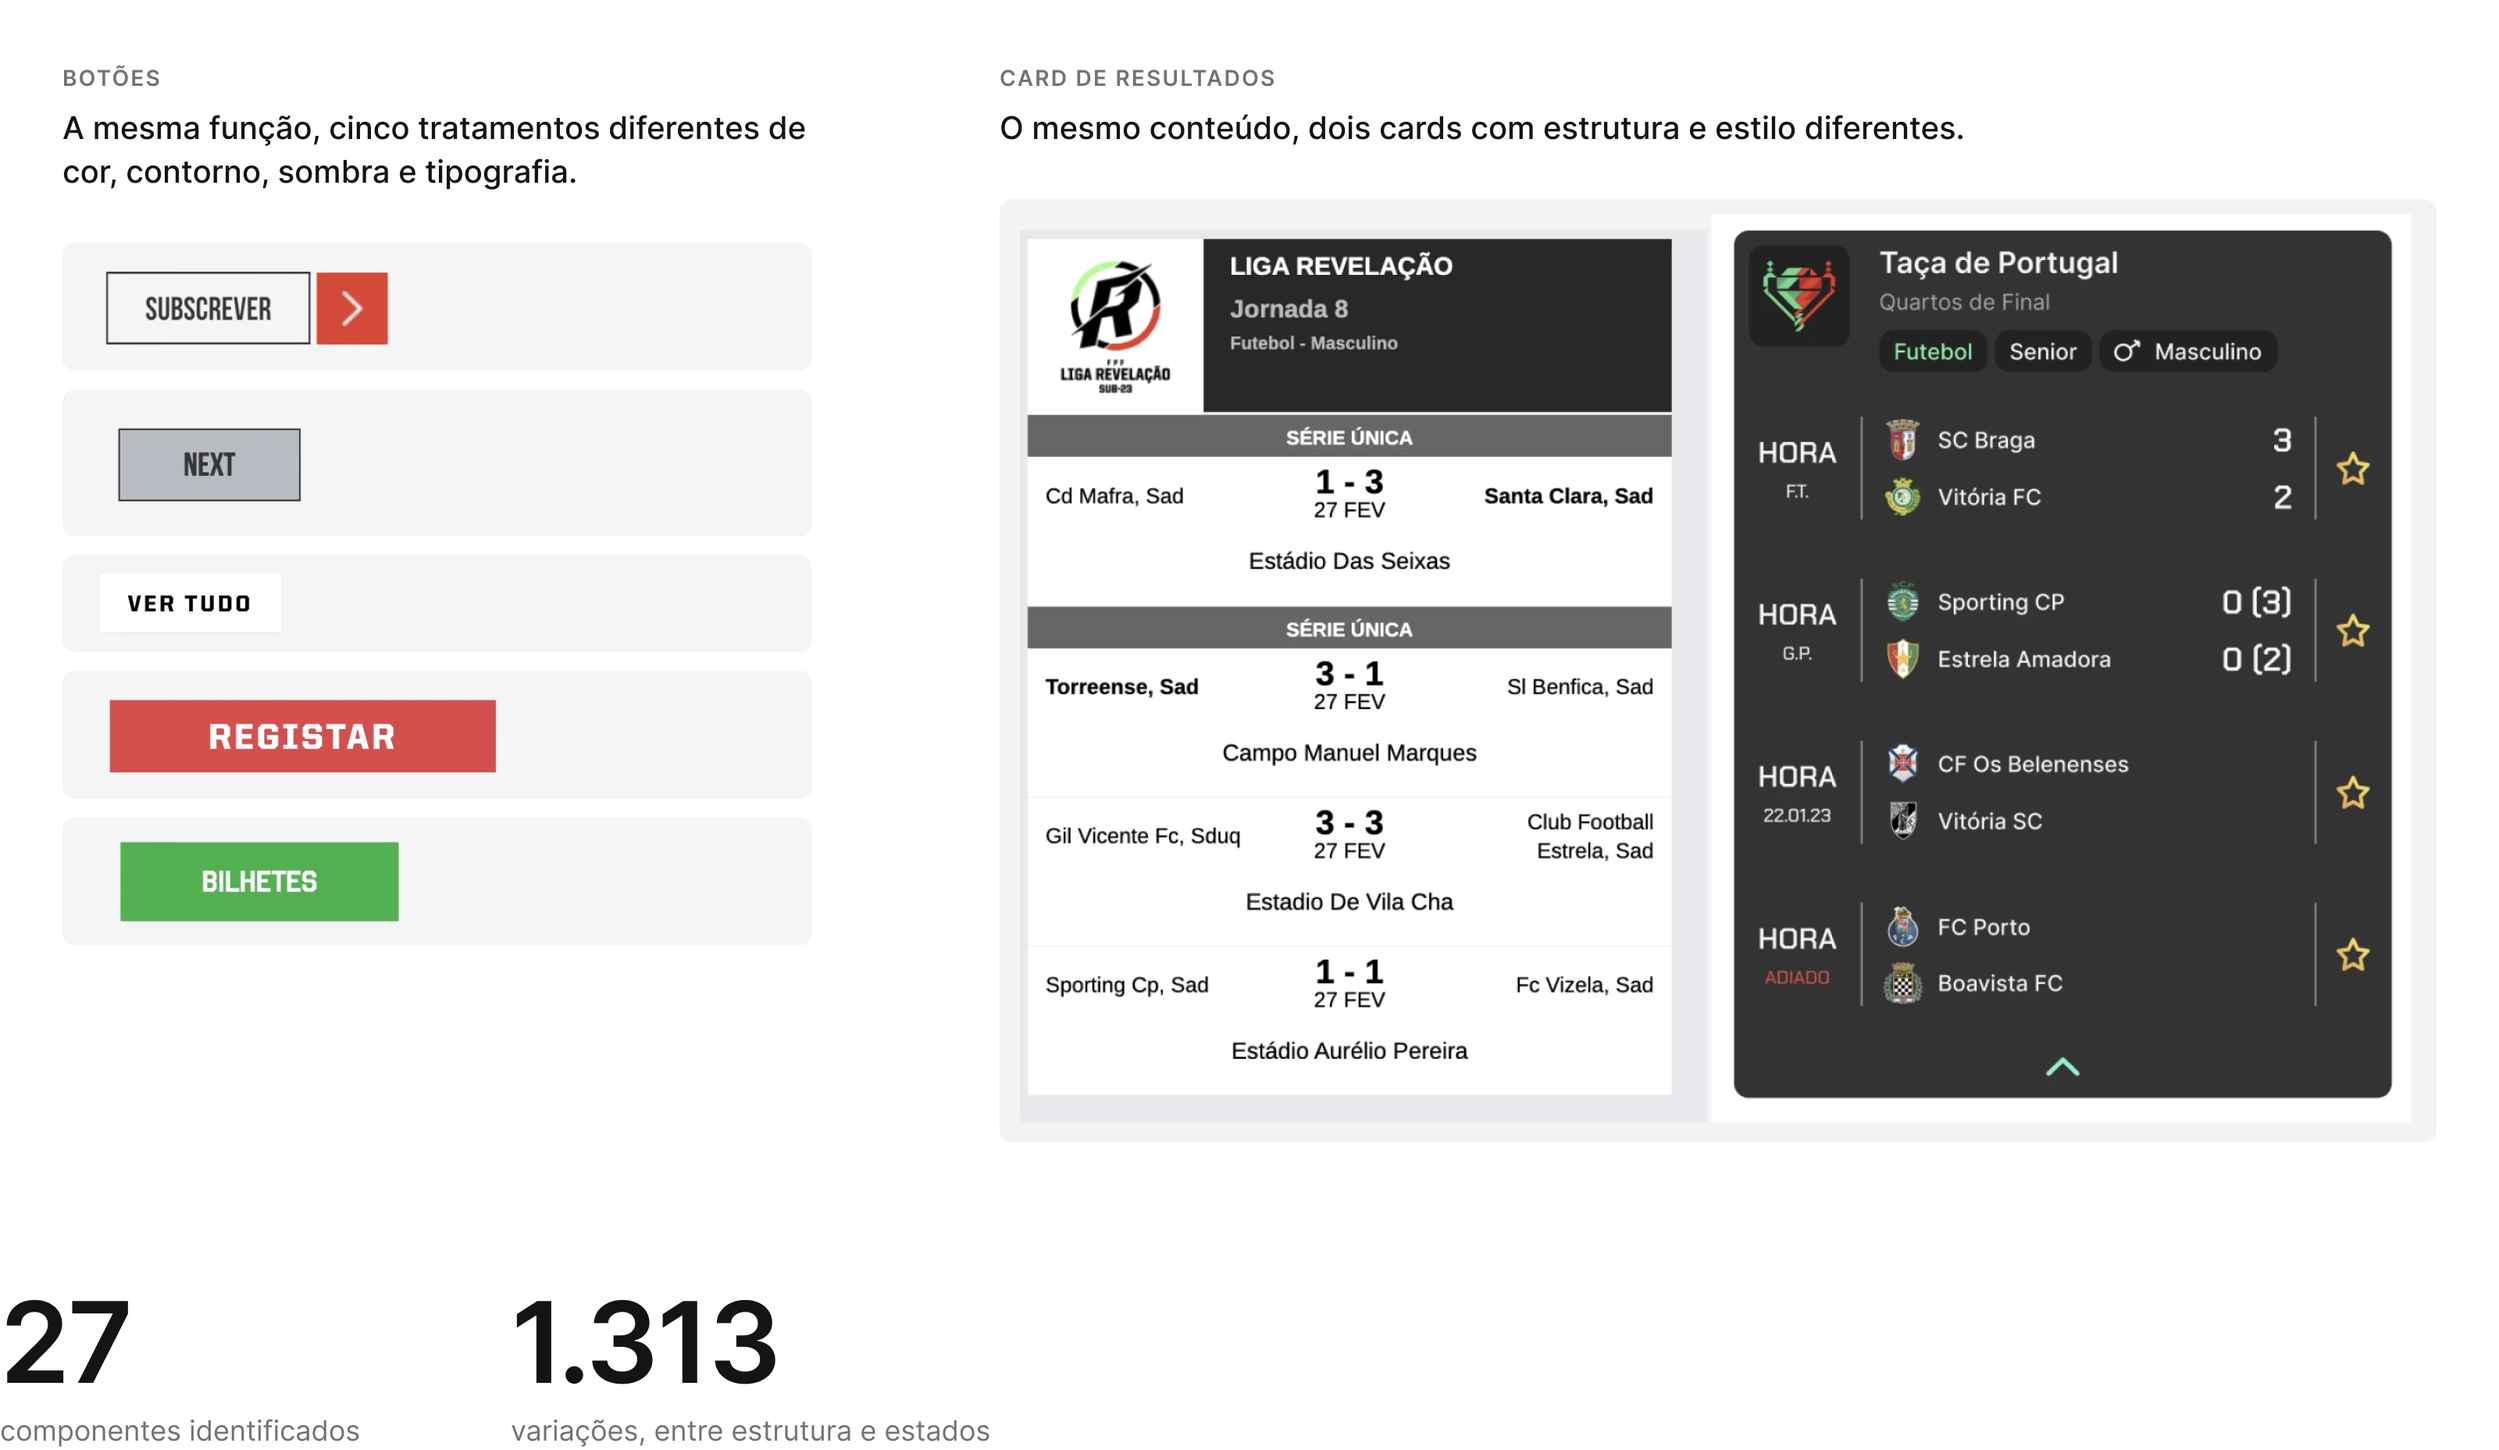
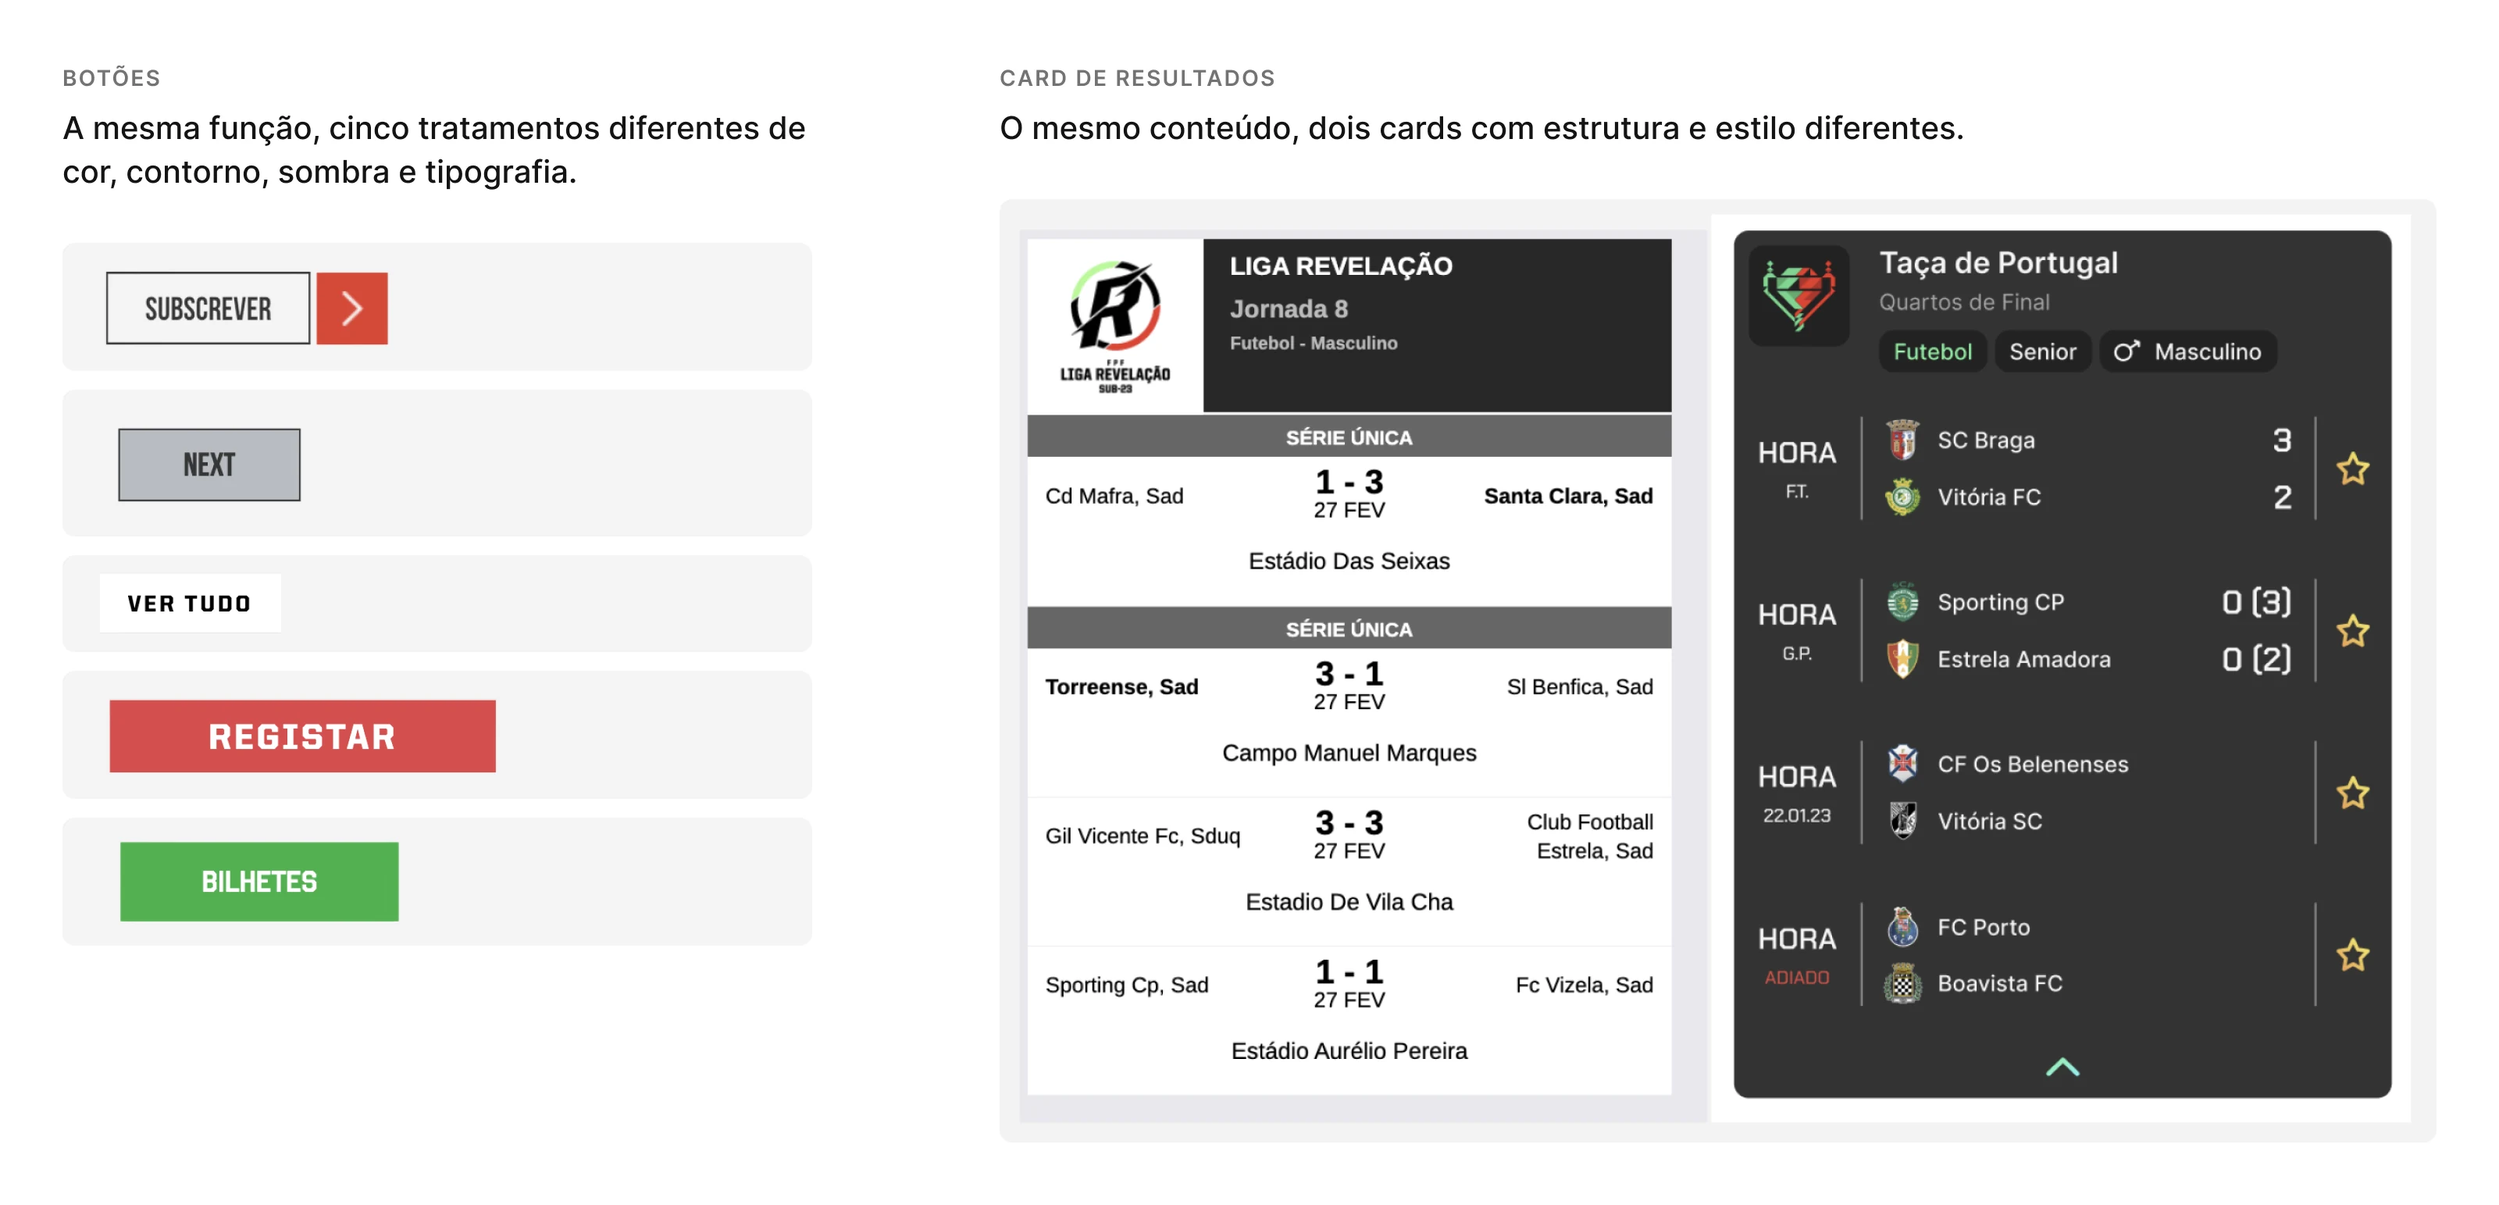
Case study FPF: números do inventário e dos resultados passam a texto na coluna central (bloco :::stats), em vez de estarem dentro das imagens
Claude-Session: https://claude.ai/code/session_0125m1rgYWwECSxchRXUAmcU

diff --git a/src/lib/caseStudy.js b/src/lib/caseStudy.js
@@ -13,6 +13,8 @@ function highlightPending(html) {
 
 // Uma linha só com ![legenda](caminho) vira uma figura larga entre blocos de texto.
 const FIGURE = /^!\[(.*)\]\((.+)\)\s*$/;
+const esc = (x) => x.replace(/&/g, '&amp;').replace(/</g, '&lt;');
+
 function toBlocks(lines) {
   const blocks = [];
   let buf = [];
@@ -21,8 +23,23 @@ function toBlocks(lines) {
     if (md) blocks.push({ type: 'html', html: highlightPending(marked.parse(md)) });
     buf = [];
   };
+  let stats = null;
   for (const line of lines) {
-    const m = line.trim().match(FIGURE);
+    const t = line.trim();
+    // :::stats ... ::: → números em destaque, na coluna do texto. Cada linha: "número | descrição".
+    if (stats) {
+      if (t === ':::') {
+        const items = stats.map((l) => {
+          const [n, ...d] = l.split('|');
+          return `<div><dt>${esc(n.trim())}</dt><dd>${marked.parseInline(d.join('|').trim())}</dd></div>`;
+        });
+        buf.push('', `<dl class="stats">${items.join('')}</dl>`, '');
+        stats = null;
+      } else if (t) stats.push(t);
+      continue;
+    }
+    if (t === ':::stats') { stats = []; continue; }
+    const m = t.match(FIGURE);
     if (m) { flush(); blocks.push({ type: 'figure', caption: m[1], src: m[2] }); }
     else buf.push(line);
   }

diff --git a/src/components/CaseStudy/style.module.scss b/src/components/CaseStudy/style.module.scss
@@ -202,6 +202,28 @@ $ease: cubic-bezier(0.76, 0, 0.24, 1);
     vertical-align: top;
   }
   td:first-child { color: $ink; font-weight: 500; width: 38%; }
+  :global(.stats) {
+    display: grid;
+    grid-template-columns: repeat(2, minmax(0, 1fr));
+    gap: 40px 48px;
+    margin: 8px 0 28px;
+    > div { margin: 0; }
+    dt {
+      font-size: 56px;
+      line-height: 1;
+      font-weight: 600;
+      letter-spacing: -0.03em;
+      color: $ink;
+      margin-bottom: 12px;
+      font-variant-numeric: tabular-nums;
+    }
+    dd {
+      margin: 0;
+      font-size: 15px;
+      line-height: 1.5;
+      color: $gray;
+    }
+  }
   mark {
     background: #fdf1d6;
     color: #8a5a00;
@@ -301,6 +323,8 @@ $ease: cubic-bezier(0.76, 0, 0.24, 1);
   .sectionGrid { gap: 20px; }
   .sectionHead h2 { font-size: 30px; }
   .prose { font-size: 17px; }
+  .prose :global(.stats) { gap: 28px 20px; }
+  .prose :global(.stats) dt { font-size: 44px; }
   .figure { margin-top: 40px; }
   .continued { margin-top: 40px; }
   .next { margin-top: 120px; padding: 80px 20px 30px; }

diff --git a/content/01-design-system-fpf.md b/content/01-design-system-fpf.md
@@ -30,7 +30,12 @@ Antes de desenhar, precisávamos de confirmar a necessidade do sistema. A equipa
 
 A análise identificou **27 componentes e 1.313 variações**, revelando inconsistências entre elementos com a mesma função.
 
-![Excerto do inventário: botões e cards de resultados com a mesma função e tratamentos diferentes.](images/fpf/02-inventario.webp?v=4)
+![Excerto do inventário: botões e cards de resultados com a mesma função e tratamentos diferentes.](images/fpf/02-inventario.webp?v=5)
+
+:::stats
+27 | componentes identificados
+1.313 | variações, entre estrutura e estados
+:::
 
 Em vez de tentar abranger todo o ecossistema, definimos quatro plataformas prioritárias: Resultados, Bilheteira, site institucional e Portugal Store.
 
@@ -73,12 +78,13 @@ Durante o ano seguinte, continuei a acompanhar a manutenção e evolução da bi
 O projeto estabeleceu uma linguagem visual partilhada e uma base reutilizável para diferentes produtos da FPF.
 
 **Resultados principais:**
-- 2 dos 4 produtos iniciais com adoção completa.
-- Cerca de 8 projetos adicionais com adoção maioritariamente parcial.
-- 100% dos novos projetos a utilizar o Design System, segundo os resultados acompanhados.
-- 12 meses adicionais de manutenção e evolução.
 
-![Adoção ao fim dos seis meses, separando adoção completa de adoção parcial.](images/fpf/08-resultados.webp?v=4)
+:::stats
+2/4 | produtos iniciais com **adoção completa**: site institucional e Portugal Store
+~8 | projetos de backoffice, a maioria com **adoção parcial**; o Score com adoção praticamente total
+100% | dos novos projetos construídos com o Design System, segundo os resultados acompanhados
+12 | meses adicionais de manutenção e evolução
+:::
 
 A maior aprendizagem foi perceber que **o sucesso de um Design System depende tanto da sua construção como da sua adoção**.
 
